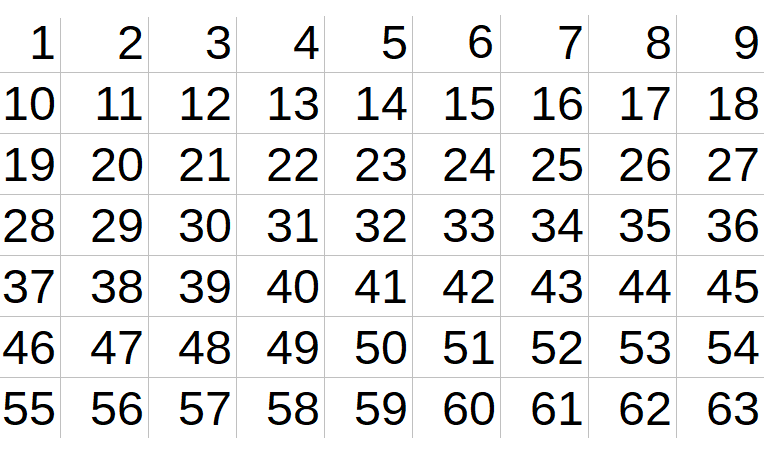
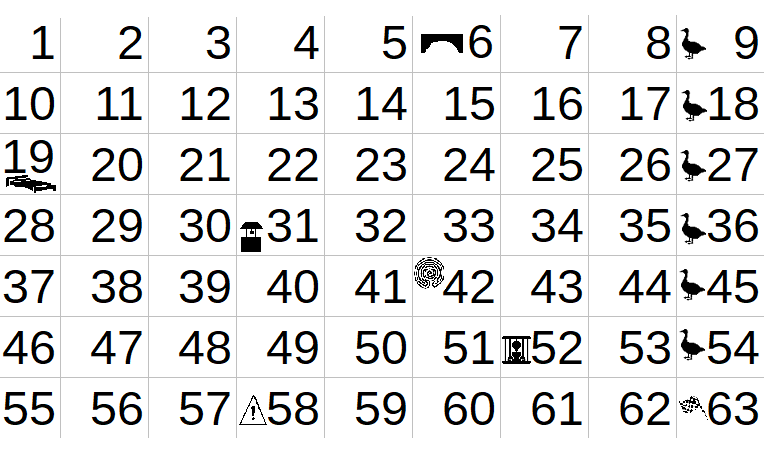
same fixes

diff --git a/src/main/java/com/madama/fabio/backend/GooseUtils.java b/src/main/java/com/madama/fabio/backend/GooseUtils.java
@@ -39,8 +39,11 @@ public class GooseUtils
 	 * @param sessionScope
 	 * @param numPlayers
 	 */
-	public static void initPlayers(SessionScope sessionScope, int numPlayers)
+	public static void initPlayersAndGame(SessionScope sessionScope, int numPlayers)
 	{
+		sessionScope.resetDice();
+		sessionScope.resetDiceLanched();
+
 		ArrayList<Player> players = new ArrayList<Player>();
 		if (numPlayers > 0)
 		{
@@ -87,7 +90,8 @@ public class GooseUtils
 		{
 			for (int i = 0; i < sessionScope.getPlayers().size(); i++)
 			{
-				if (sessionScope.getPlayers().get(i).getRound() < sessionScope.getRound())
+				Player player = sessionScope.getPlayers().get(i);
+				if (!player.isStuck() && player.getRound() < sessionScope.getRound())
 				{
 					index = i;
 					break;
@@ -163,9 +167,20 @@ public class GooseUtils
 		{
 			if (player.isWin())
 			{
-				//TODO
+				messageBoard.setText(GooseUtils.retrievePlayerName(player.getColor()) + " win the game ! ");
+				messageBoard.repaint();
 			}
 		}
+	}
+
+	public static boolean checkLook(ArrayList<Player> players, MessageBoard messageBoard)
+	{
+		if(players.size() == 2 && players.get(0).isStuck() && players.get(1).isStuck()) {
+			messageBoard.setText("All locked, end game.. ");
+			messageBoard.repaint();
+			return true;
+		}
+		return false;
 	}
 
 	public static ArrayList<Player> retrieveXYfromSpaces(ArrayList<Player> players)
@@ -434,7 +449,7 @@ public class GooseUtils
 			}
 			player.setY(retrieveCoordinatesFromColor(player.getY(), player.getColor()));
 			logger.log(Level.INFO, "Color: " + player.getColor() + " space: " + player.getSpace() + " X:" + player.getX() + " Y:" + player.getY()
-					+ " roud:" + player.getRound());
+					+ " round:" + player.getRound());
 		} // for
 		return players;
 

diff --git a/src/main/java/com/madama/fabio/backend/Controller.java b/src/main/java/com/madama/fabio/backend/Controller.java
@@ -12,31 +12,29 @@ import com.madama.fabio.backend.chainOfRules.ChainOfRulesClient;
 import com.madama.fabio.view.Billboard;
 import com.madama.fabio.view.MessageBoard;
 
-public class Controller
-{
+public class Controller {
 	private static final Logger logger = Logger.getLogger(Controller.class.getName());
 
 	/**
-	 * Depending on the value of the dice, the player's position and the direct consequences are determined
+	 * Depending on the value of the dice, the player's position and the direct
+	 * consequences are determined
 	 * 
 	 * @param billboard
 	 * @param messageBoard
 	 * @param sessionScope
 	 */
-	public void check(Billboard billboard, MessageBoard messageBoard, SessionScope sessionScope)
-	{
-		try
-		{
+	public void check(Billboard billboard, MessageBoard messageBoard, SessionScope sessionScope) {
+		try {
 			ChainOfRulesClient chainClient = new ChainOfRulesClient();
 			sessionScope = chainClient.start(sessionScope, messageBoard);
 			ArrayList<Player> players = sessionScope.getPlayers();
 			GooseUtils.moveGui(billboard, players);
 			GooseUtils.checkWin(sessionScope.getPlayers(), messageBoard);
-			sessionScope.resetDiceLanched();
-			sessionScope.resetDiceValue();
-		}
-		catch (Exception e)
-		{
+			if (!GooseUtils.checkLook(sessionScope.getPlayers(), messageBoard)) {
+				sessionScope.resetDiceLanched();
+				sessionScope.resetDice();
+			}
+		} catch (Exception e) {
 			logger.log(Level.SEVERE, "check", e);
 		}
 	}

diff --git a/src/main/java/com/madama/fabio/backend/chainOfRules/Prison.java b/src/main/java/com/madama/fabio/backend/chainOfRules/Prison.java
@@ -19,7 +19,7 @@ public class Prison extends AbstractSpaces
 
 	{
 		super.genericSpacesNumber = new HashSet<Integer>(2);
-		genericSpacesNumber.add(42);
+		genericSpacesNumber.add(31);
 		genericSpacesNumber.add(52);
 	}
 
@@ -34,8 +34,7 @@ public class Prison extends AbstractSpaces
 	{
 		logger.log(Level.INFO, "GenericSpaces");
 
-		Player player = sessionScope.getPlayers().get(getPlayerNumber(sessionScope));
-		player.setSpace(findDestination(sessionScope));
+		Player player = sessionScope.getPlayers().get(getPlayerNumber(sessionScope));		
 		for (Player item : sessionScope.getPlayers())
 		{
 			if (item.isStuck())
@@ -43,8 +42,9 @@ public class Prison extends AbstractSpaces
 				item.setStuck(false);
 				break;
 			}
-		}
+		}		
 		player.setStuck(true);
+		player.setSpace(findDestination(sessionScope));
 		player.setRound(sessionScope.getRound());
 		sessionScope.setRound(sessionScope.getRound() + 1);
 		messageBoard.setText(GooseUtils.retrievePlayerName(player.getColor()) + " in Prison, waiting for someone to free you ! ");

diff --git a/src/main/java/com/madama/fabio/backend/chainOfRules/Hotel.java b/src/main/java/com/madama/fabio/backend/chainOfRules/Hotel.java
@@ -31,13 +31,14 @@ public class Hotel extends AbstractSpaces
 	@Override
 	public SessionScope executeRules(SessionScope sessionScope, MessageBoard messageBoard)
 	{
-		logger.log(Level.INFO, "Hotel");
+		logger.log(Level.INFO, "Hotel or Water Well");
 
 		Player player = sessionScope.getPlayers().get(getPlayerNumber(sessionScope));
 		player.setSpace(findDestination(sessionScope));
-		player.setRound(sessionScope.getRound() + 3);
+		player.setRound(sessionScope.getRound());
+		player.setRound(player.getRound() +3);
 		sessionScope.setRound(sessionScope.getRound() + 1);
-		messageBoard.setText(GooseUtils.retrievePlayerName(player.getColor()) + " in Hotel, wait 3 round ! ");
+		messageBoard.setText(GooseUtils.retrievePlayerName(player.getColor()) + " in Hotel or Water Well, wait 3 round ! ");
 		messageBoard.repaint();
 		return sessionScope;
 	}

diff --git a/src/main/java/com/madama/fabio/backend/chainOfRules/Labyrinth.java b/src/main/java/com/madama/fabio/backend/chainOfRules/Labyrinth.java
@@ -8,6 +8,7 @@ import java.util.HashSet;
 import java.util.logging.Level;
 import java.util.logging.Logger;
 
+import com.madama.fabio.backend.GooseUtils;
 import com.madama.fabio.backend.Player;
 import com.madama.fabio.backend.SessionScope;
 import com.madama.fabio.view.MessageBoard;
@@ -35,6 +36,8 @@ public class Labyrinth extends AbstractSpaces
 		player.setSpace(33);
 		player.setRound(sessionScope.getRound());
 		sessionScope.setRound(sessionScope.getRound() + 1);
+		messageBoard.setText(GooseUtils.retrievePlayerName(player.getColor()) + " in Labyrinth, back to 33 ! ");
+		messageBoard.repaint();
 
 		return sessionScope;
 	}

diff --git a/src/main/java/com/madama/fabio/backend/SessionScope.java b/src/main/java/com/madama/fabio/backend/SessionScope.java
@@ -62,7 +62,6 @@ public class SessionScope
 		this.dice_2 = 0;
 	}
 
-	/* --synchronized method */
 	public boolean isDiceLaunched_1()
 	{
 		return diceLaunched_1;
@@ -81,13 +80,7 @@ public class SessionScope
 	public void yesDiceLaunched2()
 	{
 		this.diceLaunched_2 = true;
-	}
-
-	public void resetDiceValue()
-	{
-		this.dice_1 = 0;
-		this.dice_2 = 0;
-	}
+	}	
 
 	public void resetDiceLanched()
 	{

diff --git a/src/main/java/com/madama/fabio/view/MenuItemListener.java b/src/main/java/com/madama/fabio/view/MenuItemListener.java
@@ -20,7 +20,7 @@ public class MenuItemListener implements ActionListener
 	@Override
 	public void actionPerformed(ActionEvent e)
 	{
-		GooseUtils.initPlayers(sessionScope, Integer.valueOf(e.getActionCommand()));
+		GooseUtils.initPlayersAndGame(sessionScope, Integer.valueOf(e.getActionCommand()));
 		GooseUtils.moveGui(billboard, sessionScope.getPlayers());
 	}
 }

diff --git a/src/main/java/com/madama/fabio/view/ComponentGenerator.java b/src/main/java/com/madama/fabio/view/ComponentGenerator.java
@@ -74,6 +74,9 @@ public class ComponentGenerator
 		menuBar.setMinimumSize(dimensionHelp);
 		helpMenu.setText("Help");
 		helpMenu.setName("helpMenu");
+		
+		JMenuItem helpItem = new JMenuItem("Press File and select number of players");
+		helpMenu.add(helpItem);
 		menuBar.add(helpMenu);
 
 		return menuBar;
